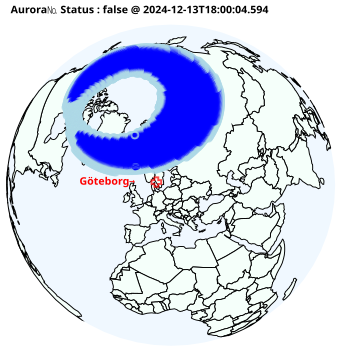
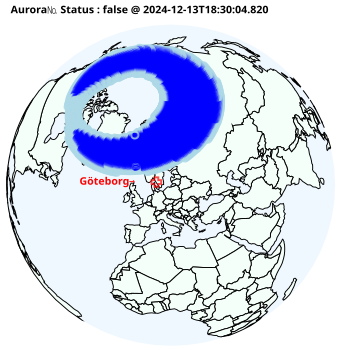
20241213183018 added aur.html

diff --git a/aur.html b/aur.html
@@ -7,6 +7,6 @@
 <body>
     <h1>Aurora Watch</h1>
     <img src="a.png" alt="Aurora Image" style="width:100%;max-width:600px;">
-    <p>Aurora Level 🌌= (0.5) was observed. (2024-12-13T18:00:04.594)</p>
+    <p>Aurora Level 🌌= (0.5) was observed. (2024-12-13T18:30:04.820)</p>
 </body>
 </html>
